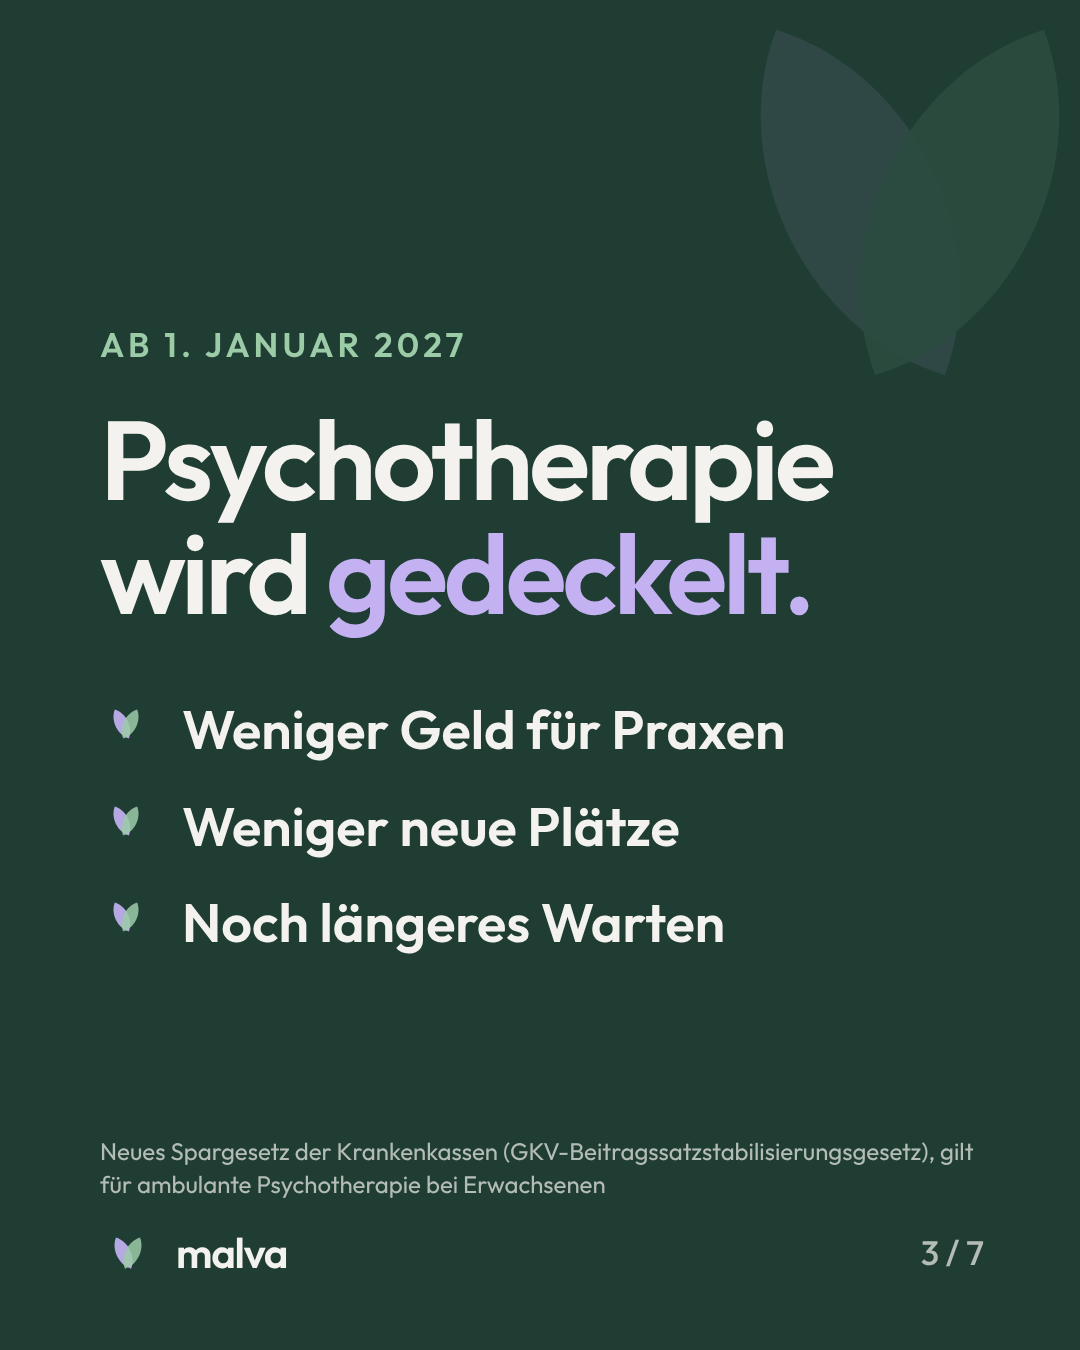
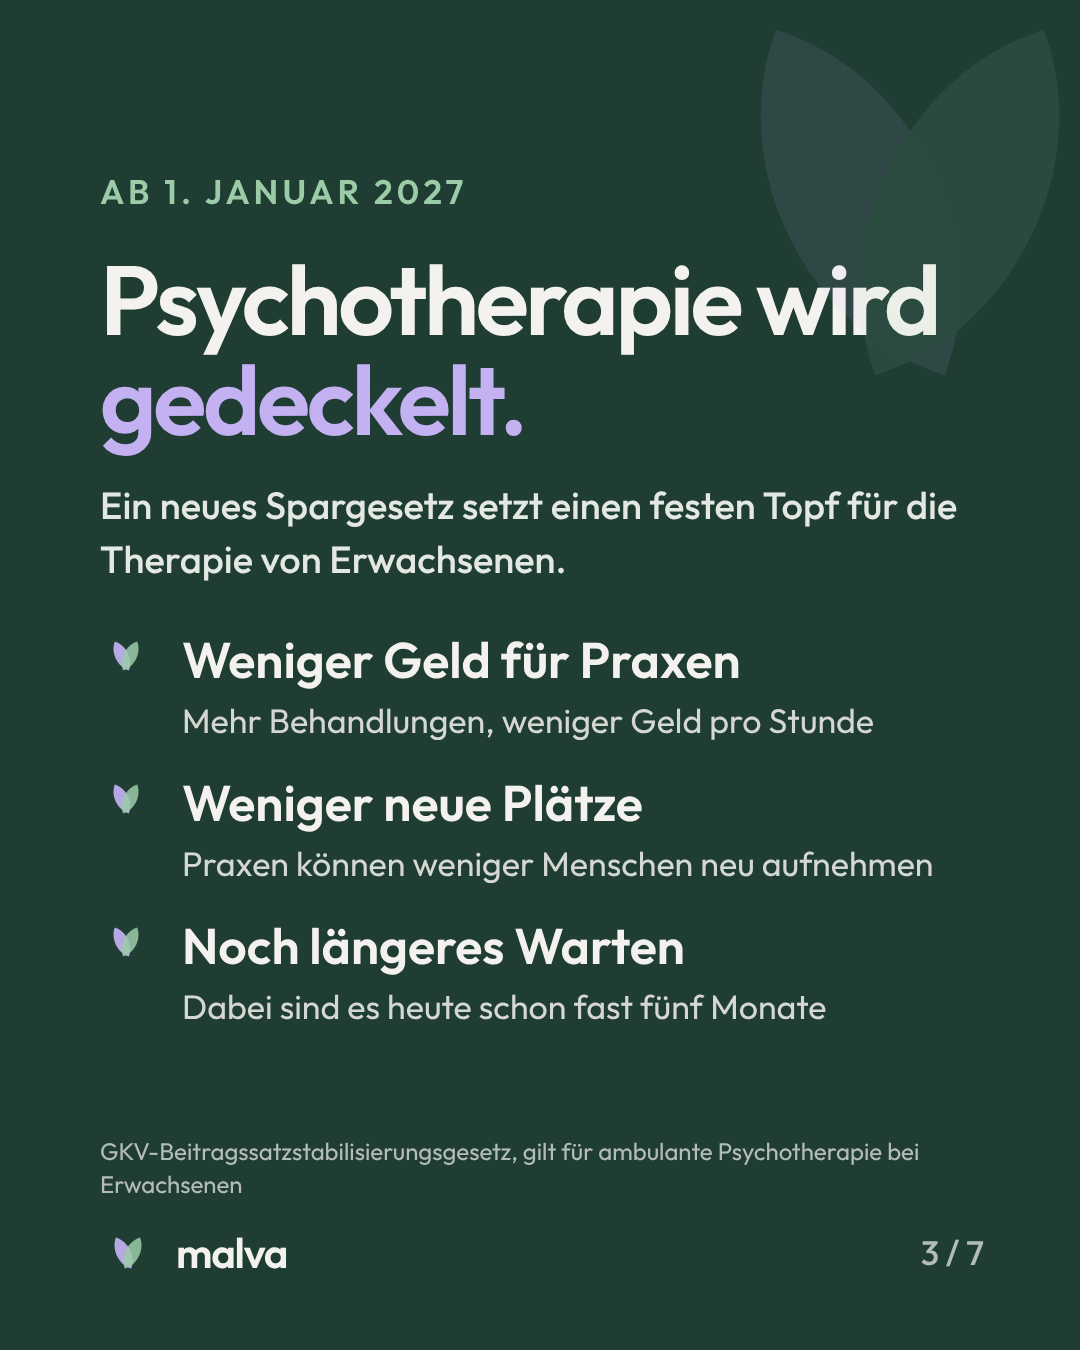
Karussell: Folie 3 etwas ausführlicher, Teilen kann heilen in Lila
Claude-Session: https://claude.ai/code/session_015uEer6M6e5oi78ZvJtGjnt

diff --git a/malva-website/instagram/psychotherapie-2027/slides.html b/malva-website/instagram/psychotherapie-2027/slides.html
@@ -88,16 +88,17 @@ h2{font-weight:600;font-size:84px;line-height:1.06;letter-spacing:-.03em}
 </section>
 
 <!-- 3 Der Deckel -->
-<section class="slide dark" id="s3">
+<section class="slide dark" id="s3" style="padding-top:80px;padding-bottom:230px">
   <span class="deco" data-mark="d"></span>
   <p class="kicker">Ab 1. Januar 2027</p>
-  <h1 style="font-size:112px">Psychotherapie wird <span class="hl">gedeckelt.</span></h1>
-  <ul class="list" style="gap:26px;margin-top:64px">
-    <li style="font-size:54px;font-weight:600"><span data-mark="d"></span><span>Weniger Geld für Praxen</span></li>
-    <li style="font-size:54px;font-weight:600"><span data-mark="d"></span><span>Weniger neue Plätze</span></li>
-    <li style="font-size:54px;font-weight:600"><span data-mark="d"></span><span>Noch längeres Warten</span></li>
+  <h1 style="font-size:98px">Psychotherapie wird <span class="hl">gedeckelt.</span></h1>
+  <p class="body" style="font-size:38px;margin-top:30px">Ein neues Spargesetz setzt einen festen Topf für die Therapie von Erwachsenen.</p>
+  <ul class="list" style="gap:26px;margin-top:40px">
+    <li style="font-size:50px;font-weight:600"><span data-mark="d"></span><span>Weniger Geld für Praxen<span class="small" style="font-size:34px">Mehr Behandlungen, weniger Geld pro Stunde</span></span></li>
+    <li style="font-size:50px;font-weight:600"><span data-mark="d"></span><span>Weniger neue Plätze<span class="small" style="font-size:34px">Praxen können weniger Menschen neu aufnehmen</span></span></li>
+    <li style="font-size:50px;font-weight:600"><span data-mark="d"></span><span>Noch längeres Warten<span class="small" style="font-size:34px">Dabei sind es heute schon fast fünf Monate</span></span></li>
   </ul>
-  <p class="src">Neues Spargesetz der Krankenkassen (GKV-Beitragssatzstabilisierungsgesetz), gilt für ambulante Psychotherapie bei Erwachsenen</p>
+  <p class="src">GKV-Beitragssatzstabilisierungsgesetz, gilt für ambulante Psychotherapie bei Erwachsenen</p>
   <div class="foot"><div class="brand" data-mark="d"><span>malva</span></div><span class="num">3 / 7</span></div>
 </section>
 
@@ -133,7 +134,7 @@ h2{font-weight:600;font-size:84px;line-height:1.06;letter-spacing:-.03em}
     <div><span class="ic">↗</span>Diesen Beitrag einmal teilen</div>
     <div><span class="ic">💬</span>Weitersagen</div>
   </div>
-  <p class="big-sage">Alles hilft.<br>Teilen kann heilen.</p>
+  <p class="big-sage">Alles hilft.<br><span class="hl">Teilen kann heilen.</span></p>
   <div class="foot"><div class="brand" data-mark="d"><span>malva</span></div><span class="num">6 / 7</span></div>
 </section>
 
